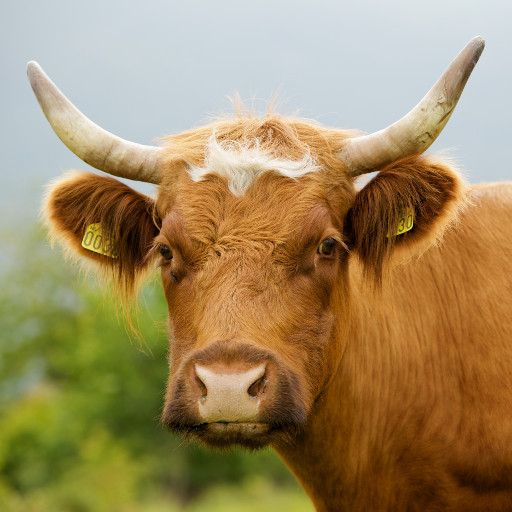
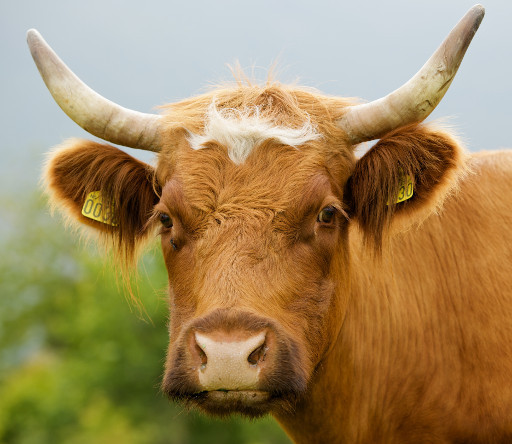
resize images for uniformity with folders

diff --git a/DragDropUI.py b/DragDropUI.py
@@ -94,6 +94,8 @@ class IconLayout(QtGui.QWidget):
 		self.hoverEffect = QtGui.QGraphicsColorizeEffect(self)
 		self.hoverEffect.setEnabled(True)
 
+		self.setMinimumSize(225, 250)
+
 		self.initUI()
 
 	def initUI(self):
@@ -131,8 +133,8 @@ class IconLayout(QtGui.QWidget):
 		elif self.hovered:
 			bg = QtGui.QColor(QtCore.Qt.blue)
 		else:
-			#bg = QtGui.QColor(128, 128, 128)
 			bg = None
+			#bg = QtGui.QColor(128, 128, 128)
 
 		if bg is not None:
 			bg.setAlpha(96)
@@ -160,14 +162,14 @@ class ImagesWindow(QtGui.QScrollArea):
 
 	def initUI(self):
 		container = QtGui.QWidget()
-		layout = FlowLayout(spacing=15)
+		layout = FlowLayout(spacing=0)
 		container.setLayout(layout)
 	
 		imagePath = './assets/animals/'
 		images = [ f for f in os.listdir(imagePath) if os.path.isfile(os.path.join(imagePath,f)) ]
 		random.shuffle(images)
 		for imageName in images:
-			image = QtGui.QImage(os.path.join(imagePath, imageName)).scaled(200, 200)
+			image = QtGui.QImage(os.path.join(imagePath, imageName)).scaled(200, 175)
 
 			w = IconLayout(image, imageName)
 			layout.addWidget(w)
@@ -187,7 +189,7 @@ class FoldersWindow(QtGui.QScrollArea):
 
 	def initUI(self):
 		container = QtGui.QWidget()
-		layout = FlowLayout(spacing=30)
+		layout = FlowLayout(spacing=0)
 		
 		image = QtGui.QImage('assets/folder.png').scaled(200, 200)
 		folderNames = [
@@ -460,6 +462,7 @@ class DeviceOptionsWindow(QtGui.QWidget):
 			[calibrateButton, ''],
 			['Dwell duration', dwellDurationBox],
 			['Dwell range', dwellRangeBox],
+			['Attention period', dwellRangeBox],
 		])
 		
 	def showGazeCalibration(self):

diff --git a/GazeDevice.py b/GazeDevice.py
@@ -95,10 +95,10 @@ class _GazeDevice(QtCore.QObject):
 	def __init__(self):
 		super().__init__()
 
-		self.detector = DwellSelect(.33, 75)
+		self.detector = DwellSelect(.50, 75)
 		self.gazePosition = [-99, -99]
 		self.eyePositions = [[-99, -99], [-99, -99]]
-		self.attentionStalePeriod = 2.0 # in seconds
+		self.attentionStalePeriod = 1.0 # in seconds
 		self.lastFixation = None
 		self.sawEyesLastTime = None
 		
